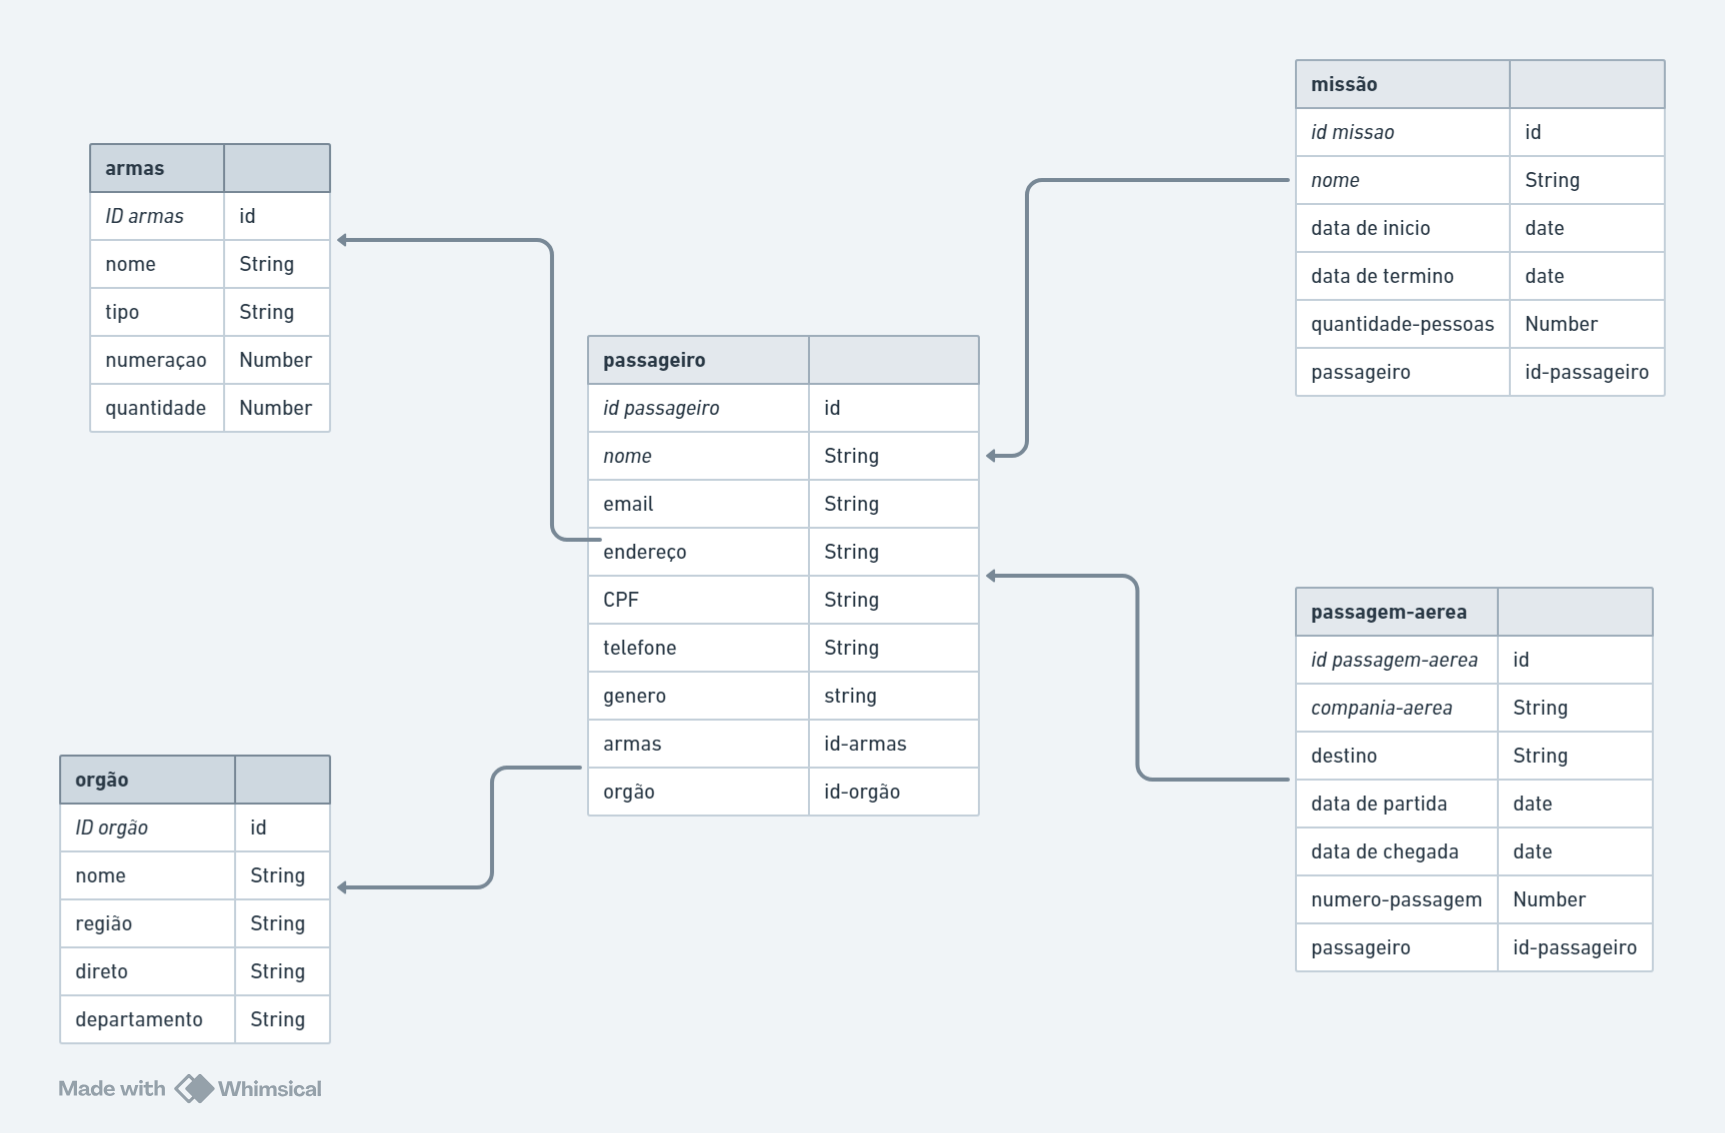
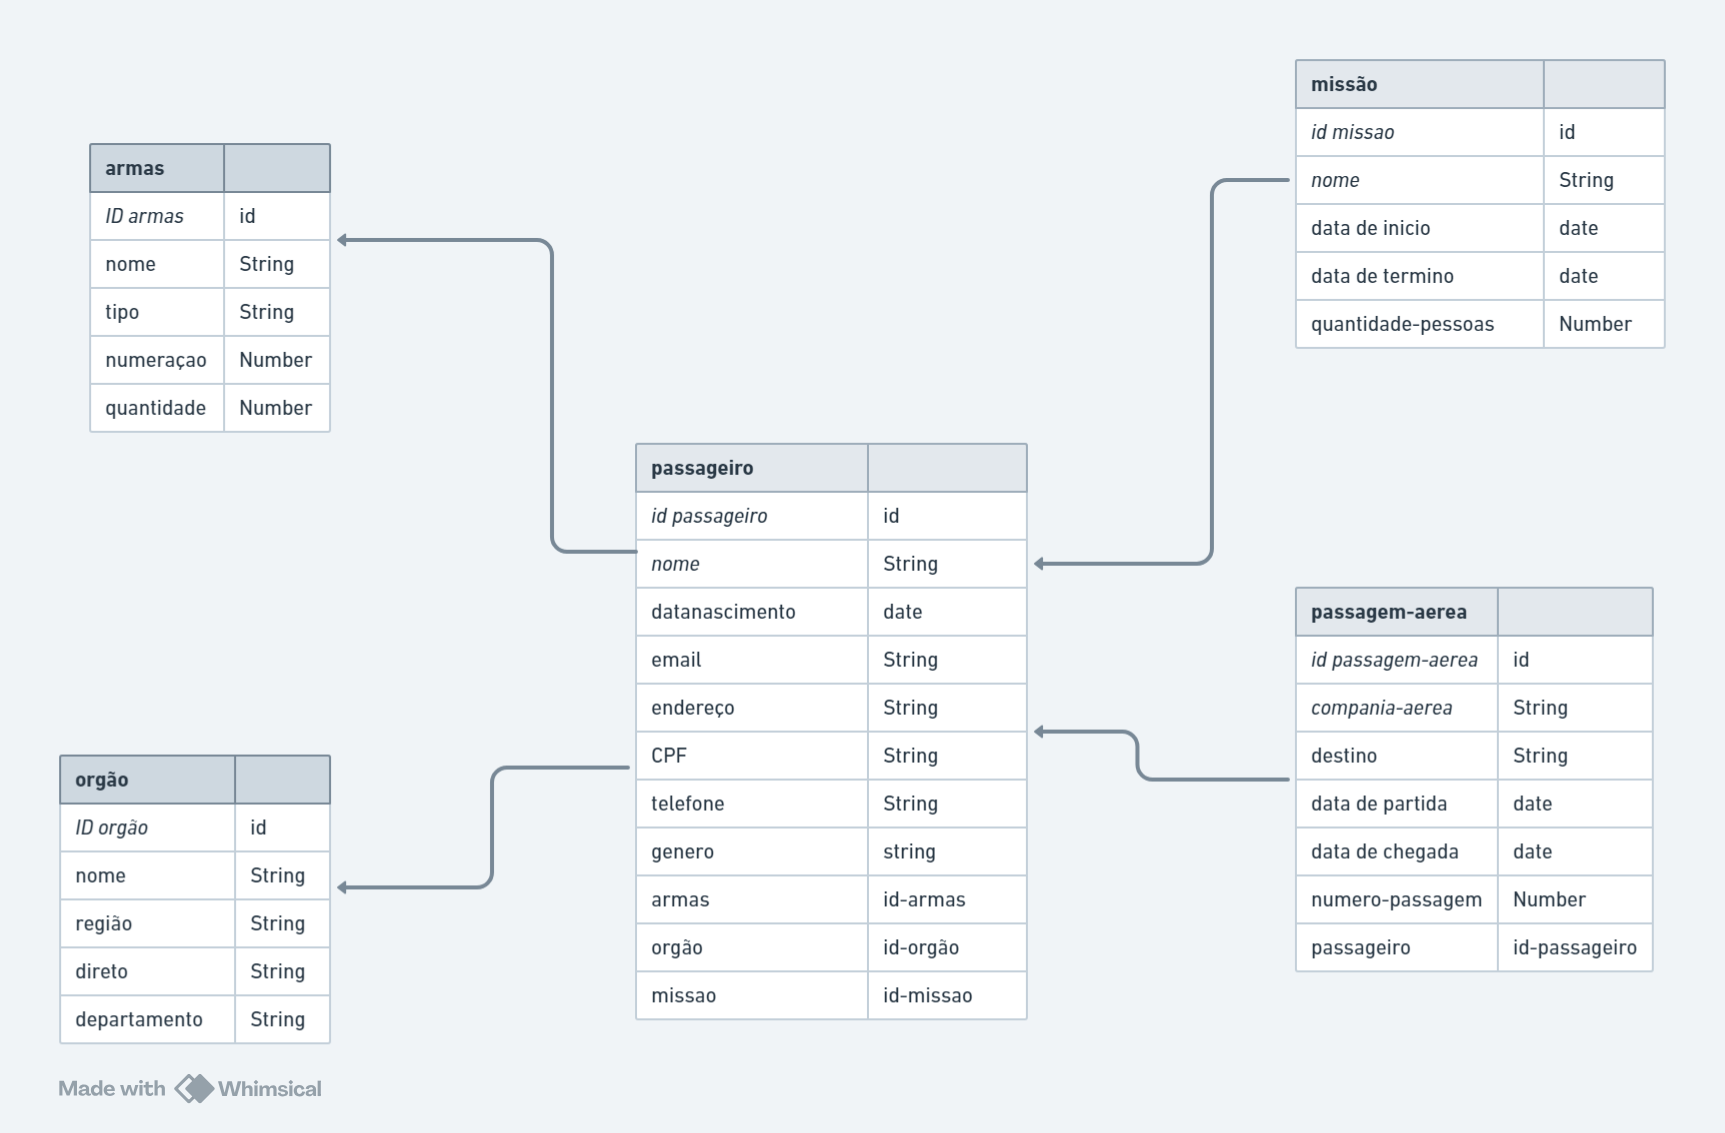
finalizado os validaores

diff --git a/P2-api-passageiro-armado postman/src/routes/routes.js b/P2-api-passageiro-armado postman/src/routes/routes.js
@@ -1,47 +1,51 @@
 const express = require('express')
 const router = express.Router()
-
+//controller
 const armascontroller = require('../controller/armascontroller')
 const missaocontroller = require('../controller/missaocontroler')
 const orgaocontroller = require('../controller/orgaocontroller')
 const passageirocontroller = require('../controller/passageirocontroller')
 const passagemaereacontroller = require('../controller/passagemaereacontrole')
-
+//validaores
 const {validarid} = require('../validators/validaid')
-
+const { passageiroValidador } = require('../validators/passageirovalidador')
+const { armasValidador } = require('../validators/armasvalidador')
+const { orgaoValidador } = require('../validators/orgaovalidador')
+const { missaoValidador } = require('../validators/missaovalidador')
+const { passagemValidador } = require('../validators/passagemaereavalidador')
 //passageiro
-router.post('/passageiro',passageirocontroller.create)
+router.post('/passageiro',passageiroValidador,passageirocontroller.create)
 router.get('/passageiro', passageirocontroller.getAll)
-router.get('/passageiro/:id', validarid , passageirocontroller.getByid)
-router.put('/passageiro/:id',validarid,passageirocontroller.update)
+router.get('/passageiro/:id', validarid ,passageiroValidador, passageirocontroller.getByid)
+router.put('/passageiro/:id',validarid,passageiroValidador,passageirocontroller.update)
 router.delete('/passageiro/:id', validarid, passageirocontroller.remove)
 
 // passagem
-router.post('/passagem',passagemaereacontroller.create)
+router.post('/passagem',passagemValidador,passagemaereacontroller.create)
 router.get('/passagem', passagemaereacontroller.getAll)
-router.get('/passagem/:id', validarid , passagemaereacontroller.getByid)
-router.put('/passagem/:id',validarid,passagemaereacontroller.update)
+router.get('/passagem/:id', validarid ,passagemValidador, passagemaereacontroller.getByid)
+router.put('/passagem/:id',validarid,passagemValidador,passagemaereacontroller.update)
 router.delete('/passagem/:id', validarid, passagemaereacontroller.remove)
 
 //armas
-router.post('/armas',armascontroller.create)
+router.post('/armas',armasValidador,armascontroller.create)
 router.get('/armas', armascontroller.getAll)
-router.get('/armas/:id', validarid , armascontroller.getByid)
-router.put('/armas/:id',validarid,armascontroller.update)
+router.get('/armas/:id', validarid,armasValidador , armascontroller.getByid)
+router.put('/armas/:id',validarid,armasValidador,armascontroller.update)
 router.delete('/armas/:id', validarid, armascontroller.remove)
 
 //orgao
-router.post('/orgao',orgaocontroller.create)
+router.post('/orgao',orgaoValidador,orgaocontroller.create)
 router.get('/orgao', orgaocontroller.getAll)
-router.get('/orgao/:id', validarid , orgaocontroller.getByid)
-router.put('/orgao/:id',validarid,orgaocontroller.update)
+router.get('/orgao/:id', validarid,orgaoValidador , orgaocontroller.getByid)
+router.put('/orgao/:id',validarid,orgaoValidador,orgaocontroller.update)
 router.delete('/orgao/:id', validarid, orgaocontroller.remove)
 
 //missao
-router.post('/missao',missaocontroller.create)
+router.post('/missao',missaoValidador,missaocontroller.create)
 router.get('/missao', missaocontroller.getAll)
-router.get('/missao/:id', validarid , missaocontroller.getByid)
-router.put('/missao/:id',validarid,missaocontroller.update)
+router.get('/missao/:id', validarid ,missaoValidador, missaocontroller.getByid)
+router.put('/missao/:id',validarid,missaoValidador,missaocontroller.update)
 router.delete('/missao/:id', validarid, missaocontroller.remove)
 
 

diff --git a/P2-api-passageiro-armado postman/src/validators/passageirovalidador.js b/P2-api-passageiro-armado postman/src/validators/passageirovalidador.js
@@ -1,0 +1,58 @@
+const yup = require('yup')
+
+const passageiroschema = yup.object().shape({
+    nome: yup
+        .string('campo precisa ser uma texto')
+        .required('campo obrigatório'),
+    datanascimento: yup
+        .date('Data inválida')
+        .required('campo obrigatório'),
+    cpf: yup
+        .string('campo precisa ser uma texto')
+        .required('campo obrigatório'),
+    email: yup
+        .string('campo precisa ser uma texto')
+        .email('E-mail inválido')
+        .required('campo obrigatório'),
+    telefone: yup
+        .string('campo precisa ser um texto')
+        .required('campo obrigatório'),
+    genero: yup
+        .string('campo precisa ser um texto')
+        .required('campo obrigatorio'),
+    arma: yup
+        .string('campo precisa ser um texto')
+        .required('campo obrigatorio'),
+    orgao: yup
+        .string('campo precisa ser um texto')
+        .required('campo obrigatorio'),
+    missao: yup
+        .string('campo precisa ser um texto')
+        .required('campo obrigatorio'),
+})
+
+function passageiroValidador(req, res, next) {
+    passageiroschemaschema
+        .validate(req.body, { abortEarly: false })
+        .then(() => next())
+        .catch(err => {
+            console.log(err)
+            const errors = err.inner.map(e => {
+                const erro = {
+                    campo: e.path,
+                    erros: e.errors
+                }
+                return erro
+            })
+            res.status(400).json(
+                {
+                    mensagem: "Falha na validação dos campos",
+                    erros: errors
+                }
+            )
+        })
+}
+
+module.exports = {
+    passageiroValidador
+}

diff --git a/P2-api-passageiro-armado postman/src/validators/passagemaereavalidador.js b/P2-api-passageiro-armado postman/src/validators/passagemaereavalidador.js
@@ -1,0 +1,48 @@
+const yup = require('yup')
+
+const passagemschema = yup.object().shape({
+    companiaAerea: yup
+        .string('campo precisa ser uma texto')
+        .required('campo obrigatório'),
+    destino: yup
+        .string('campo precisa ser uma texto')
+        .required('campo obrigatório'),
+    dataPartida: yup
+        .date('Data inválida')
+        .required('campo obrigatório'),
+    dataChegada: yup
+        .date('Data inválida')
+        .required('campo obrigatório'),
+    numeroPassagem: yup
+        .number('campo precisa ser um numero')
+        .required('campo obrigatório'),
+    passageiro: yup
+        .string('campo precisa ser um texto')
+        .required('campo obrigatorio'),
+})
+
+function passagemValidador(req, res, next) {
+    passagemschema
+        .validate(req.body, { abortEarly: false })
+        .then(() => next())
+        .catch(err => {
+            console.log(err)
+            const errors = err.inner.map(e => {
+                const erro = {
+                    campo: e.path,
+                    erros: e.errors
+                }
+                return erro
+            })
+            res.status(400).json(
+                {
+                    mensagem: "Falha na validação dos campos",
+                    erros: errors
+                }
+            )
+        })
+}
+
+module.exports = {
+    passagemValidador
+}

diff --git a/P2-api-passageiro-armado postman/src/validators/missaovalidador.js b/P2-api-passageiro-armado postman/src/validators/missaovalidador.js
@@ -1,0 +1,48 @@
+const yup = require('yup')
+
+const missaoSchema = yup.object().shape({
+    nome: yup
+        .string('campo precisa ser uma texto')
+        .required('campo obrigatório'),
+    DataInicio: yup
+        .date('Data inválida')
+        .required('campo obrigatório'),
+    DataInicio: yup
+        .date('Data inválida')
+        .required('campo obrigatório'),
+    DataTermino: yup
+        .date('Data inválida')
+        .required('campo obrigatório'),
+    QuantidadePessoas: yup
+        .number('campo precisa ser um numero')
+        .required('campo obrigatório'),
+    passageiro: yup
+        .string('campo precisa ser um id valido')
+        .required('campo obrigatorio')
+
+})
+
+function missaoValidador(req, res, next) {
+    missaoSchema
+        .validate(req.body, { abortEarly: false })
+        .then(() => next())
+        .catch(err => {
+            const errors = err.inner.map(e => {
+                const erro = {
+                    campo: e.path,
+                    erros: e.errors
+                }
+                return erro
+            })
+            res.status(400).json(
+                {
+                    mensagem: "Falha na validação dos campos",
+                    erros: errors
+                }
+            )
+        })
+}
+
+module.exports = {
+    missaoValidador
+}

diff --git a/P2-api-passageiro-armado postman/src/validators/armasvalidador.js b/P2-api-passageiro-armado postman/src/validators/armasvalidador.js
@@ -1,0 +1,46 @@
+const yup = require('yup');
+
+
+const armaSchema = yup.object().shape({
+    nome: yup
+        .string('campo precisa ser uma texto')
+        .required('campo obrigatório'),
+    tipo: yup
+        .string('campo precisa ser um texto')
+        .required('campo obrigatório'),
+    numeracao: yup
+        .number('campo precisa ser um numero')
+        .required('campo obrigatório'),
+    quantidade: yup
+        .number('campo precisa ser um numero')
+        .required('campo obrigatório')
+});
+
+// Definindo o esquema para o array de armas com limite de 3 objetos
+const armasArraySchema = yup.array()
+    .of(armaSchema)
+    .min(1, 'limite minimmo de armas ')
+    .max(3, 'limite maximo de armas');
+
+function armasValidador(req, res, next) {
+    armasArraySchema
+        .validate(req.body, { abortEarly: false })
+        .then(() => next())
+        .catch(err => {
+            const errors = err.inner.map(e => {
+                const erro = {
+                    campo: e.path,
+                    erros: e.errors
+                };
+                return erro;
+            });
+            res.status(400).json({
+                mensagem: "Falha na validação dos campos",
+                erros: errors
+            });
+        });
+}
+
+module.exports = {
+    armasValidador
+};

diff --git a/P2-api-passageiro-armado postman/src/validators/orgaovalidador.js b/P2-api-passageiro-armado postman/src/validators/orgaovalidador.js
@@ -1,0 +1,41 @@
+const yup = require('yup')
+
+const orgaoSchema = yup.object().shape({
+    nome: yup
+        .string('campo precisa ser uma texto')
+        .required('campo obrigatório'),
+    regiao: yup
+        .string('campo precisa ser uma texto')
+        .required('campo obrigatório'),
+    direto: yup
+        .string('campo precisa ser uma texto')
+        .required('campo obrigatório'),
+    departamento: yup
+        .string('campo precisa ser uma texto')
+        .required('campo obrigatório'),
+})
+
+function orgaoValidador(req, res, next) {
+    orgaoSchema
+        .validate(req.body, { abortEarly: false })
+        .then(() => next())
+        .catch(err => {
+            const errors = err.inner.map(e => {
+                const erro = {
+                    campo: e.path,
+                    erros: e.errors
+                }
+                return erro
+            })
+            res.status(400).json(
+                {
+                    mensagem: "Falha na validação dos campos",
+                    erros: errors
+                }
+            )
+        })
+}
+
+module.exports = {
+    orgaoValidador
+}

diff --git a/P2-api-passageiro-armado postman/src/models/passageiro.js b/P2-api-passageiro-armado postman/src/models/passageiro.js
@@ -6,6 +6,10 @@ const schema = new mongoose.Schema(
             type: String,
             required: true
         },
+        datanascimento: {
+            type: Date,
+            required: true
+        },
         cpf: {
             type: String,
             required: true
@@ -20,7 +24,8 @@ const schema = new mongoose.Schema(
         telefone: {
             type: String,
             required: true
-        }, endereco: {
+        },
+        endereco: {
             cep: String,
             uf: String,
             logradouro: String,
@@ -36,12 +41,17 @@ const schema = new mongoose.Schema(
         armas: {
             type: mongoose.SchemaTypes.ObjectId,
             ref: 'armas',
-            required: false
+            required: true
         },
         orgao: {
             type: mongoose.SchemaTypes.ObjectId,
             ref: 'orgao',
-            required: false
+            required: true
+        },
+        missao: {
+            type: mongoose.SchemaTypes.ObjectId,
+            ref: 'missao',
+            required: true
         },
 
     },

diff --git a/P2-api-passageiro-armado postman/src/models/orgao.js b/P2-api-passageiro-armado postman/src/models/orgao.js
@@ -5,13 +5,16 @@ const schema = new mongoose.Schema(
         nome: {
             type: String,
             required: true
-        }, regiao: {
+        },
+        regiao: {
             type: String,
             required: true
-        }, diretor: {
+        }, 
+        diretor: {
             type: String,
             required: true
-        }, departamento: {
+        }, 
+        departamento: {
             type: String,
             required: true
         }

diff --git a/P2-api-passageiro-armado postman/src/index.js b/P2-api-passageiro-armado postman/src/index.js
@@ -18,5 +18,5 @@ const routes = require('./routes/routes')
 app.use("/", checarToken, routes)
 
 app.listen(PORT, () => {
-    console.log(`Aplicação rodando na porta ${PORT}`)
+    console.log(`Aplicação rodando http://localhost:${PORT}`)
 })

diff --git a/P2-api-passageiro-armado postman/src/models/passagem-aerea.js b/P2-api-passageiro-armado postman/src/models/passagem-aerea.js
@@ -5,7 +5,8 @@ const schema = new mongoose.Schema(
         companiaAerea: {
             type: String,
             required: true
-        },destino:{
+        },
+        destino:{
             type:String,
             required: true
 
